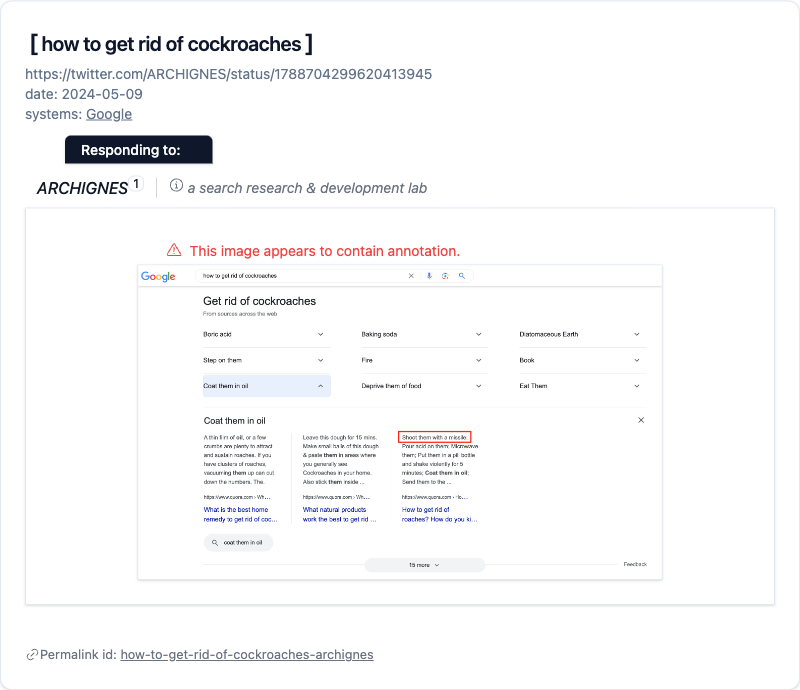
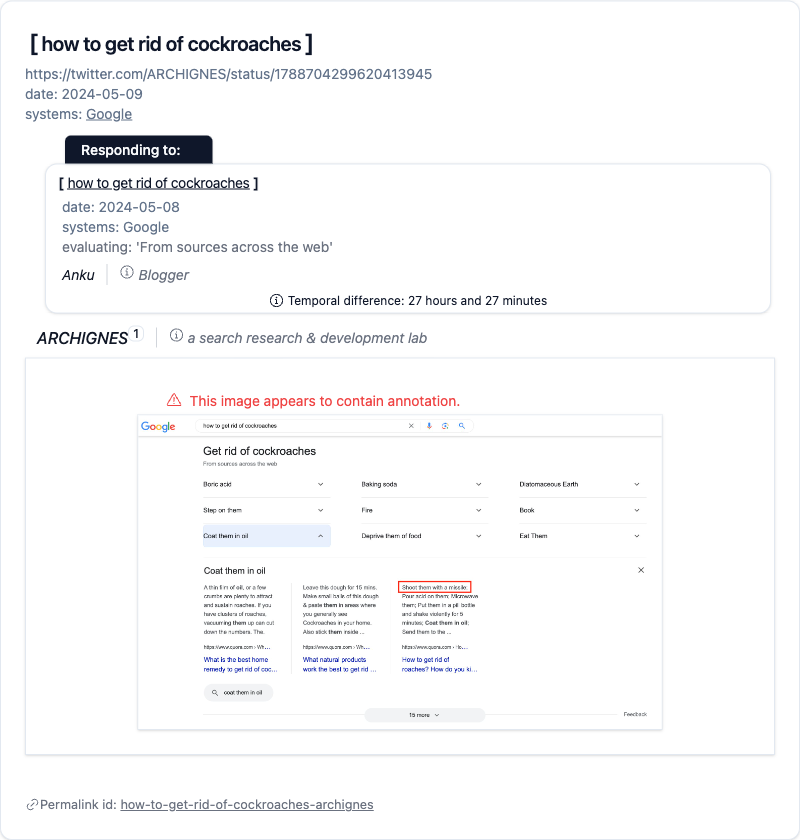
fix sort order in feed; add credit for useWindowResize; update relevant screenshots

diff --git a/src/components/Feed.tsx b/src/components/Feed.tsx
@@ -46,7 +46,18 @@ const Row = ({ sortedData, index, style, setSize, windowWidth }: {
 const Feed: React.FC = () => {
   const { data } = useContext(DataContext);
   const sortedData = useMemo(() =>
-    [...data].sort((a, b) => b.date.localeCompare(a.date)),
+    [...data].sort((a, b) => {
+      const dateComparison = b.date.localeCompare(a.date);
+      if (dateComparison !== 0) return dateComparison;
+      // If both URLs are Twitter links, extract the last segment
+      // as the tweet ID and compare them
+      if (a.url.startsWith('https://twitter.com') && b.url.startsWith('https://twitter.com')) {
+        const aTweetId = a.url.split('/').pop() || "";
+        const bTweetId = b.url.split('/').pop() || "";
+        return bTweetId.localeCompare(aTweetId);
+      }
+      return 0;
+    }),
     [data]
   );
    

diff --git a/src/components/Footer.tsx b/src/components/Footer.tsx
@@ -2,7 +2,7 @@ import { GitHubLogoIcon, TwitterLogoIcon, LinkedInLogoIcon } from '@radix-ui/rea
 import { Button } from "./ui/button";
 import { Input } from "./ui/input";
 
-const lastUpdated = "2024-05-10T00:11:52.246Z";
+const lastUpdated = "2024-05-10T00:27:09.614Z";
 
 const Footer: React.FC = () => {
   return (

diff --git a/src/components/useWindowResize.tsx b/src/components/useWindowResize.tsx
@@ -1,3 +1,5 @@
+// adapted from: https://github.com/bvaughn/react-window/issues/190#issuecomment-1916091172
+
 import { useState, useEffect } from "react";
 import { useIsomorphicLayoutEffect } from "react-use";
 
